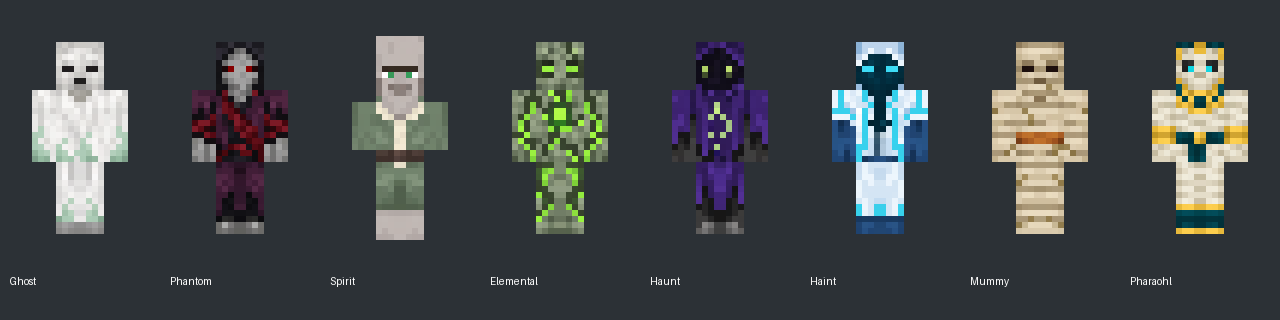
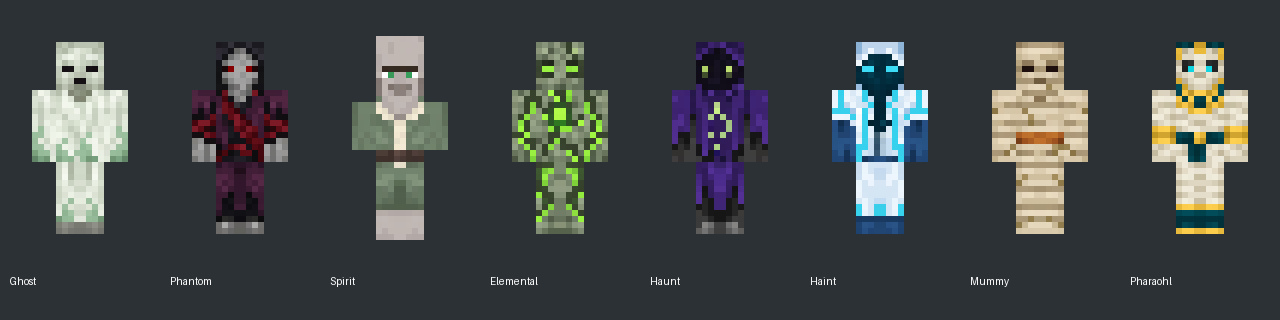
Tint Ghost shroud subtly green to match Ghost Garb

diff --git a/docs/MOB_APPEARANCE.md b/docs/MOB_APPEARANCE.md
@@ -4,7 +4,7 @@ Eight formerly shared/base skins now have original simple 64x64 textures, genera
 
 | Mob | Appearance | Existing rendering |
 | --- | --- | --- |
-| Ghost | Ash-white burial shroud, hollow dark eyes, sparse mint hem | Intangible/translucent |
+| Ghost | Pale sage/mint burial shroud matching Ghost Garb, hollow dark eyes, richer mint hem | Intangible/translucent |
 | Phantom | Dark plum coat, gray mask, red eyes and sash | Tangible/opaque |
 | Spirit | Ash-gray villager skin, mint eyes, sage clothes and ivory trim | Villager model, intangible/translucent |
 | Elemental | Moss-gray stone with lime cracks and chest core | Intangible/translucent |
@@ -78,3 +78,9 @@ Use case: precise-object-edit. Asset type: Minecraft native mob UV texture atlas
 Master: `exec-3a838b27-bc63-4625-8026-ecd3f251f8af.png`.
 
 Use case: precise-object-edit. Asset type: Minecraft native mob UV texture atlas, NOT an illustration of the mob. Reference image is the vanilla 64x64 zombie atlas enlarged nearest-neighbor. Preserve EXACT location and size of every original UV island, and transparent unused region including lower half. Face is logicalpixels x8..15 y8..15; body x16..39 y16..31; legs x0..15 y16..31; arms x40..55 y16..31. No adding margins, moving islands, perspective, labels or human drawings. Replace all zombie skin/clothing with original simple pixel-art materials at original64x64 logical pixel resolution. Flat surfaces, limited palettes, 2-3 shades per material, no gradients or bloom. An original ancient Pharaohl: a gold-and-dark-teal striped royal nemes headcloth painted across all head faces, a pale sand-bone face with dark eye sockets and small cyan eyes, broad simple gold collar at torso neckline, ivory mummy wrappings across torso and limbs, a dark teal waist sash with one gold square buckle, gold wrist bands. Readable restrained gold teal ivory palette, no beard projecting outside UV, no elaborate armor, no extra model parts.
+
+## Ghost palette refinement
+
+The Ghost was subtly tinted sage/mint to match Ghost Garb; the native UV layout and alpha mask remain unchanged. Generated edit master: `exec-192f892f-1917-4bfd-8646-55a0ad2586f2.png` in the masters directory above. References: original Ghost master and `ghost_garb_woven_layer_1.png`.
+
+Prompt: Precise recolor only; preserve the atlas canvas, UV islands, pixel grid, shroud pattern, dark face and transparency. Tint the pale shroud subtly muted sage/mint using Ghost Garb as palette reference, retaining desaturated spectral highlights and gray-green shadows. No armor shapes, new features, bloom or blur.
